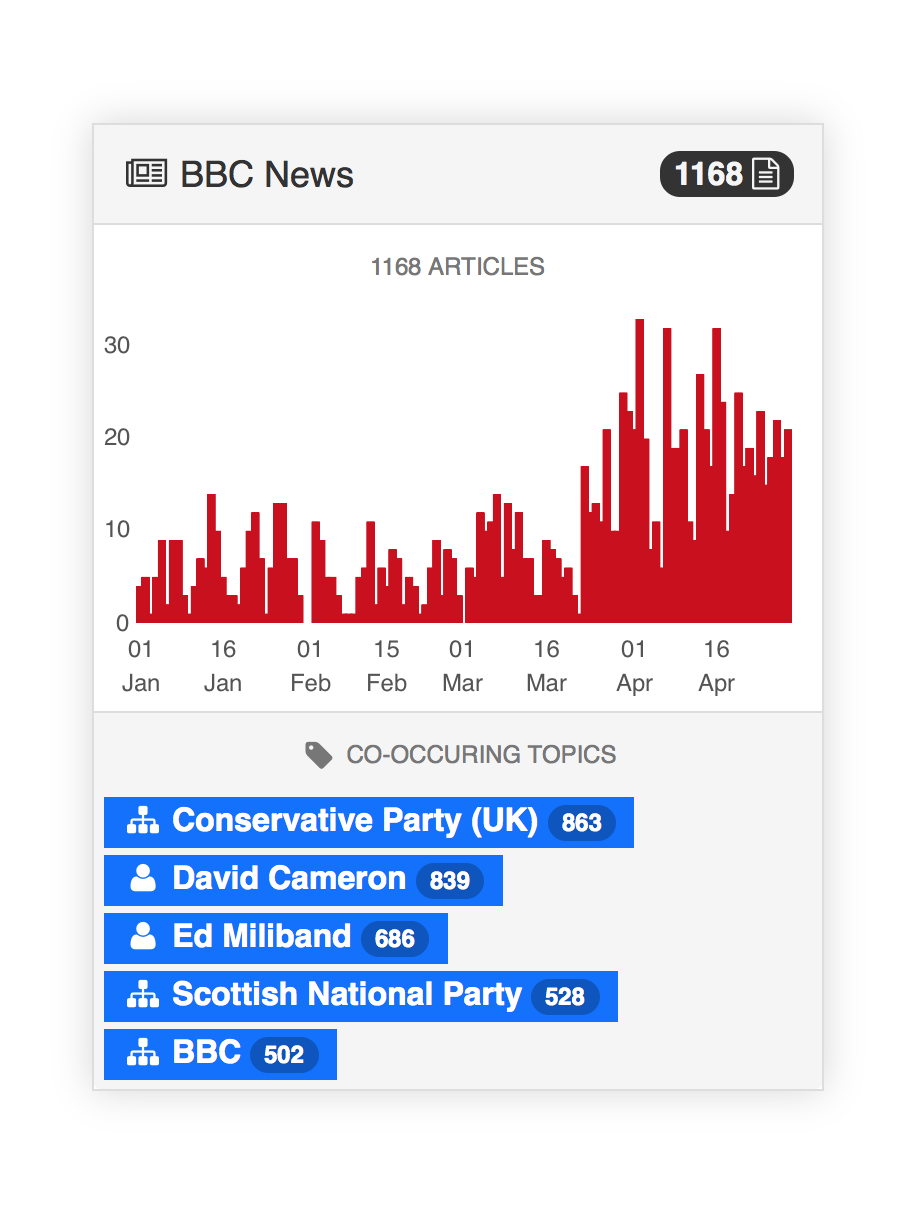
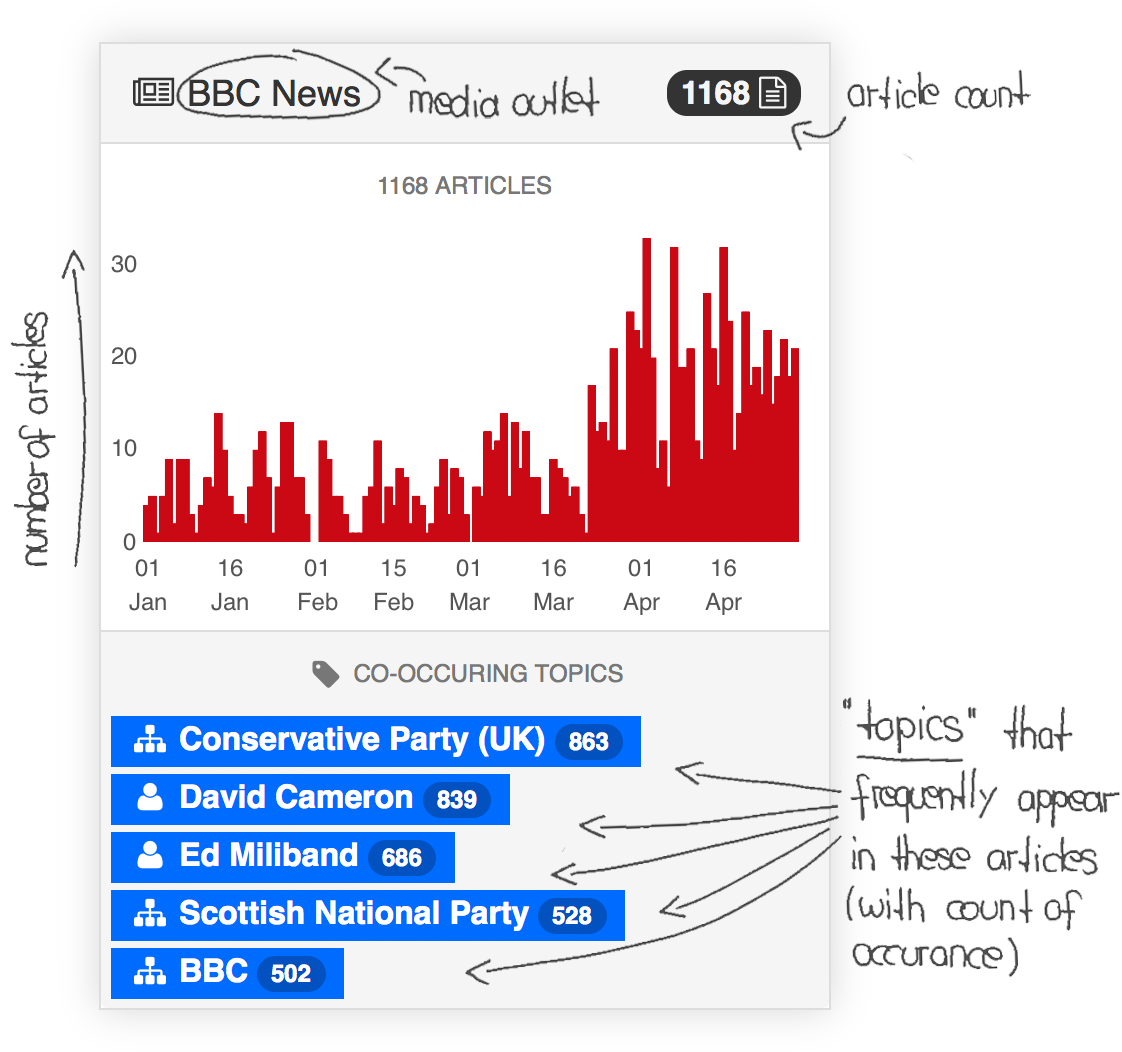
Edited help box
added a new graphic and some explanatory text to the ‘What does it
mean?’ fold-out.

Changed region(s): [[0.0, 0.2129, 1.0, 0.9734], [0.1219, 0.0304, 0.5484, 0.1825], [0.5789, 0.0608, 0.914, 0.1825]]

diff --git a/index.html b/index.html
@@ -46,7 +46,7 @@
         <div class="col-md-12">
           <h4 class="text-center">
             <i class="fa fa-lg fa-fw fa-info-circle text-info"></i>
-            This is an experimental R&D project from News Labs. Coverage may not be accurate for all sources. <a class="hidden about-toggle" href=""><strong>What does this mean?</strong></a>
+            This is an experimental project from News Labs. Coverage may not be accurate for all sources. <a class="about-toggle" href=""><strong>What does this mean?</strong></a>
           </h4>
           <br/>
         </div>
@@ -55,14 +55,23 @@
         <div class="col-md-12">
           <div class="well clearfix">
               <a class="about-toggle text-muted pull-right" href=""><i class="fa fa-2x fa-times-circle"></i></a>
-              <h2 style="margin-top: 0;">About</h2>
               <div class="media">
-                <div class="media-left" style="width: 30%">
+                <div class="media-left" style="width: 50%">
                   <img src="img/example-graph.png" style="width: 100%;" alt="Example graph" class="pull-left" />
                 </div>
                 <div class="media-body">
+                  <h2>What am I looking at here?</h2>
                   <p class="lead">
-                    Lorum ipsum...
+                    The Coverage Checker is an tool in development, the analysis is not exhaustive. 
+                    At the moment we collect articles that appear in RSS feeds of around 350 news sources, mainly UK,
+                    some international.<br>
+                    When you search for a keyword (combination) the graph shows you the number of matching articles
+                    per day, for each news source.<br>
+                    'Topics' are different. They are concepts we assign to the articles, even if the word itself may
+                    not appear. The topic <i>BBC</i> for example may appear as <i>BBC</i> or as <i>British Broadcaster</i> or maybe
+                    as <i>Radio4</i>.<br> 
+                    <b>This process is not perfect</b>, we are still building. Please, keep that in mind when you
+                    before wildly interpreting the topic tags under the graph. 
                   </p>
                 </div>
               </div>
